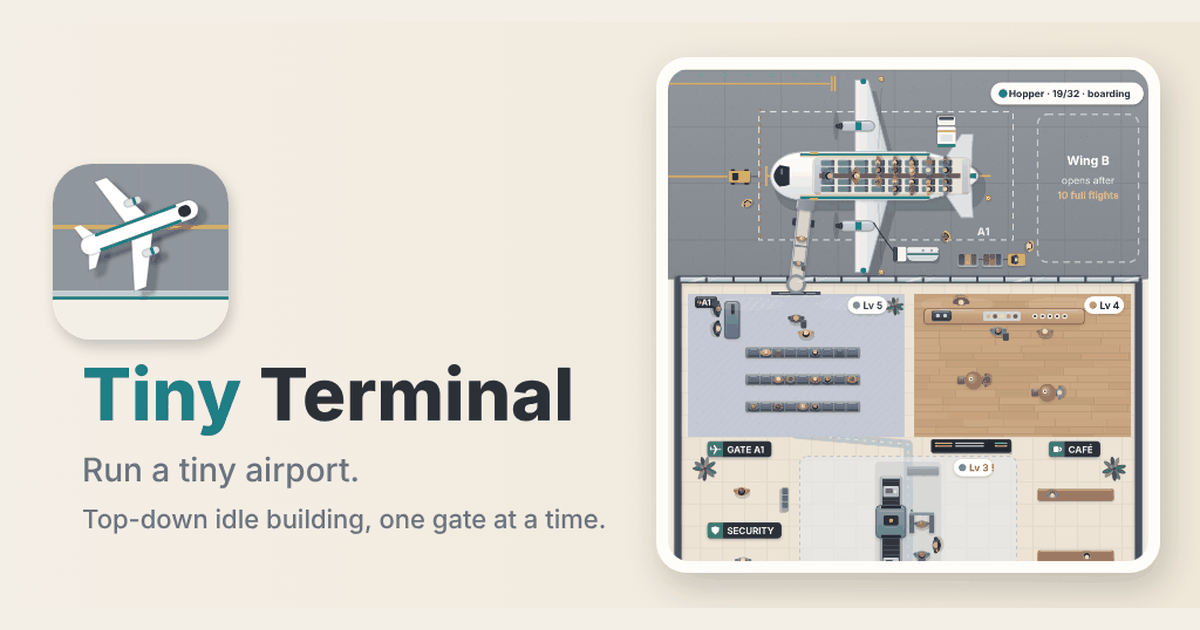
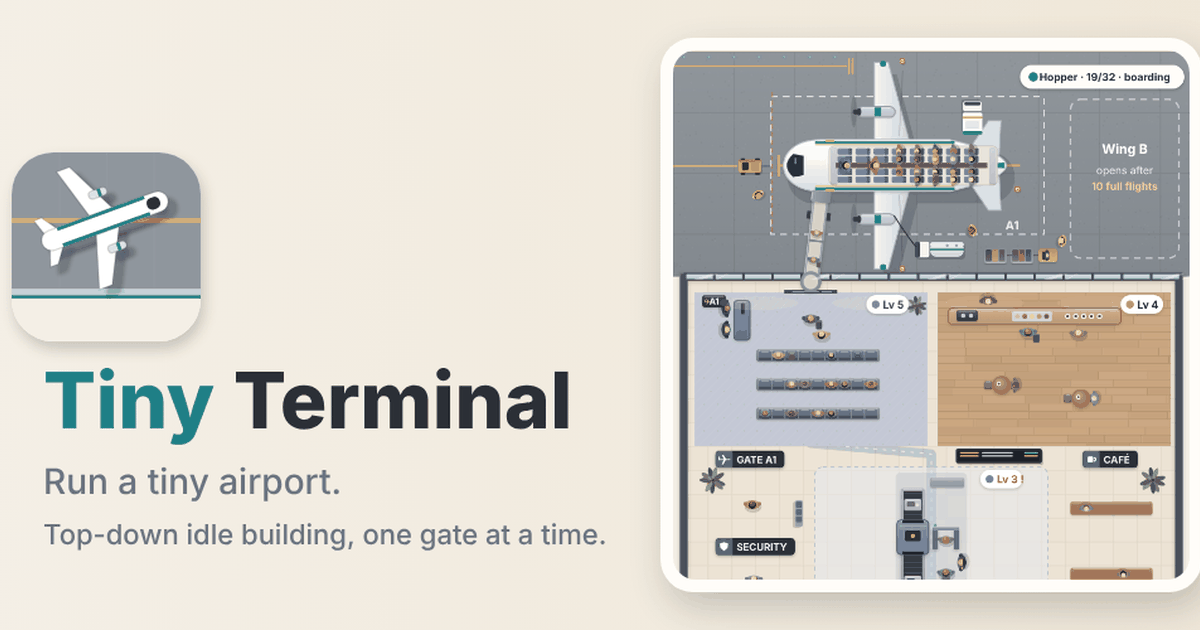
Marketing: Design and QA fixes for the Tiny Terminal site
Design (items 1-8 on feb8c0f0):
- tap targets of at least 44 px: nav toggle, Coming soon pill, footer links,
  .brand and the lightbox close
- brand mark in the nav and footer uses <picture> with 64/96 px WebP and PNG
- og.png: the feature graphic now covers the full 1200x630, with no frame
- no stray colours: --on-teal (the paper colour) for text on teal, and the
  shot, menu and lightbox shadows moved into --elev-* tokens

QA:
- FAQ: Settings -> Restore purchases (visible answer and FAQPage JSON-LD)
- "no analytics in the game" on the No account card
- CLAUDE.md no longer mentions .nojekyll

Claude-Session: https://claude.ai/code/session_017KbFjboyWF9GPd7Qu8dHwU

Changed region(s): [[0.0308, 0.0603, 1.0, 0.9952], [0.0308, 0.5429, 0.4933, 0.7841], [0.0, 0.2413, 0.2158, 0.5429]]

diff --git a/index.html b/index.html
@@ -48,7 +48,7 @@
       "name": "I bought Remove Ads. How do I get it on a new phone?",
       "acceptedAnswer": {
         "@type": "Answer",
-        "text": "Sign in to Google Play on the new phone with the same Google account you bought it with. Then open the game and go to Settings → Restore purchase. Remove Ads is a one-time purchase, so you don't pay again."
+        "text": "Sign in to Google Play on the new phone with the same Google account you bought it with. Then open the game and go to Settings → Restore purchases. Remove Ads is a one-time purchase, so you don't pay again."
       }
     },
     {
@@ -92,7 +92,11 @@
     --bg:var(--card); --bg-soft:var(--page); --line:var(--hairline);
     --sans:'Inter', system-ui, -apple-system, 'Segoe UI', Roboto, sans-serif;
     --r:12px; --r-btn:8px; --maxw:1120px;
-    --elev-card:0 2px 4px rgba(60,50,30,.06); --elev-toast:0 6px 16px rgba(30,30,30,.18);
+    /* elevation: card, sheet, toast from tokens.js; shot, menu and lightbox derived from the sheet and ink colours */
+    --elev-card:0 2px 4px rgba(60,50,30,.06); --elev-sheet:0 -6px 24px rgba(40,30,20,.12); --elev-toast:0 6px 16px rgba(30,30,30,.18);
+    --elev-shot:0 16px 44px -22px rgba(40,30,20,.45); --elev-menu:0 12px 24px -16px rgba(40,30,20,.25); --elev-lightbox:0 40px 90px -30px rgba(43,47,54,.6);
+    /* text on teal buttons: the paper colour (6.19:1 on --teal-deep) */
+    --on-teal:var(--card);
   }
   *{margin:0;padding:0;box-sizing:border-box}
   html{scroll-behavior:smooth}
@@ -111,22 +115,22 @@
   /* nav */
   nav{position:sticky; top:0; z-index:50; background:rgba(255,253,249,.9); backdrop-filter:blur(12px); border-bottom:1px solid var(--line)}
   .nav-in{display:flex; align-items:center; justify-content:space-between; max-width:var(--maxw); margin:0 auto; padding:12px 24px; position:relative}
-  .brand{display:inline-flex; align-items:center; gap:10px; font-size:18px; font-weight:800; letter-spacing:-0.01em; color:var(--ink); white-space:nowrap}
+  .brand{display:inline-flex; align-items:center; gap:10px; min-height:44px; font-size:18px; font-weight:800; letter-spacing:-0.01em; color:var(--ink); white-space:nowrap}
   .brand img{width:32px; height:32px; border-radius:8px}
   .nav-r{display:flex; align-items:center; gap:26px}
   .nav-r a{font-size:14px; font-weight:500; color:var(--ink-soft); transition:.15s}
   .nav-r a:hover{color:var(--ink)}
-  .nav-btn{background:var(--teal-deep); color:#fff !important; padding:9px 18px; border-radius:var(--r-btn); font-weight:700; font-size:14px; transition:.15s}
+  .nav-btn{background:var(--teal-deep); color:var(--on-teal) !important; padding:9px 18px; border-radius:var(--r-btn); font-weight:700; font-size:14px; transition:.15s}
   .nav-btn:hover{background:var(--ink)}
   /* Hamburger toggle: hidden on desktop, shown on mobile */
-  .nav-toggle{display:none; flex-direction:column; justify-content:center; gap:5px; width:42px; height:42px; padding:0 9px; border:0; background:none; cursor:pointer; -webkit-tap-highlight-color:transparent}
+  .nav-toggle{display:none; flex-direction:column; justify-content:center; gap:5px; width:44px; height:44px; padding:0 9px; border:0; background:none; cursor:pointer; -webkit-tap-highlight-color:transparent}
   .nav-toggle span{display:block; height:2px; width:100%; background:var(--ink); border-radius:2px; transition:transform .2s ease, opacity .2s ease}
   .nav-toggle[aria-expanded="true"] span:nth-child(1){transform:translateY(7px) rotate(45deg)}
   .nav-toggle[aria-expanded="true"] span:nth-child(2){opacity:0}
   .nav-toggle[aria-expanded="true"] span:nth-child(3){transform:translateY(-7px) rotate(-45deg)}
 
   .app-icon{border-radius:22%; box-shadow:var(--elev-toast)}
-  .pill{display:inline-block; padding:9px 20px; background:var(--teal-tint); color:var(--teal-deep); border-radius:999px; font-weight:700; font-size:15px}
+  .pill{display:inline-block; padding:11px 20px; background:var(--teal-tint); color:var(--teal-deep); border-radius:999px; font-weight:700; font-size:15px}
   .trust-strip{display:flex; gap:10px 16px; justify-content:center; flex-wrap:wrap; margin-top:22px; font-size:13px; font-weight:500; color:var(--ink)}
   .trust-strip span{display:inline-flex; align-items:center; gap:7px}
   .trust-strip span::before{content:""; width:5px; height:5px; border-radius:50%; background:var(--teal)}
@@ -136,7 +140,7 @@
   .foot-grid{display:grid; grid-template-columns:1.5fr 1fr 1fr 1fr; gap:32px}
   .foot-brand p{color:var(--ink-soft); font-size:14px; margin-top:14px; max-width:24em}
   .foot-col h4{font-size:12px; font-weight:500; letter-spacing:0.14em; text-transform:uppercase; color:var(--teal-deep); margin-bottom:12px}
-  .foot-col a{display:block; color:var(--ink-soft); font-size:14px; padding:5px 0; transition:.15s}
+  .foot-col a{display:block; color:var(--ink-soft); font-size:14px; padding:11px 0; line-height:22px; transition:.15s}
   .foot-col a:hover{color:var(--ink)}
   .foot-legal{border-top:1px solid var(--line); margin-top:38px; padding-top:22px; font-size:13px; color:var(--ink-soft); line-height:1.7}
   .foot-legal a{color:var(--ink); text-decoration:underline; text-decoration-color:var(--line); text-underline-offset:2px}
@@ -147,7 +151,7 @@
     .nav-toggle{display:flex}
     /* Links collapse into a dropdown panel toggled by the hamburger */
     .nav-r{position:absolute; top:100%; left:0; right:0; flex-direction:column; align-items:stretch; gap:0;
-           background:var(--card); border-bottom:1px solid var(--line); box-shadow:0 12px 24px -16px rgba(40,30,20,.25);
+           background:var(--card); border-bottom:1px solid var(--line); box-shadow:var(--elev-menu);
            padding:6px 0; display:none}
     .nav-r.open{display:flex}
     .nav-r a{padding:13px 24px; font-size:16px}
@@ -172,15 +176,15 @@
   /* phone slot: shot-*.png/webp are 540x960 (9:16), shown at 230x409, so a real
      phone screenshot can replace each file later without a layout change. */
   .phone{width:230px; flex:0 0 auto}
-  .screen.shot img{display:block; width:100%; height:auto; border-radius:20px; border:1px solid var(--line); box-shadow:0 16px 44px -22px rgba(40,30,20,.45)}
+  .screen.shot img{display:block; width:100%; height:auto; border-radius:20px; border:1px solid var(--line); box-shadow:var(--elev-shot)}
   /* Clickable screenshots -> lightbox */
   .shot-link{display:block; padding:0; margin:0; border:0; background:none; cursor:zoom-in; width:100%; -webkit-tap-highlight-color:transparent}
   .shot-link img{transition:opacity .2s ease}
   .shot-link:hover img{opacity:.9}
   .lightbox{position:fixed; inset:0; z-index:200; display:none; align-items:center; justify-content:center; padding:32px; background:rgba(43,47,54,.88); backdrop-filter:blur(4px); cursor:zoom-out}
   .lightbox.open{display:flex}
-  .lightbox img{max-width:min(92vw,420px); max-height:90vh; width:auto; height:auto; border-radius:14px; box-shadow:0 40px 90px -30px rgba(0,0,0,.6); cursor:default}
-  .lightbox-close{position:absolute; top:18px; right:22px; width:40px; height:40px; border:0; background:none; color:#fff; font-size:30px; line-height:1; cursor:pointer; border-radius:var(--r-btn)}
+  .lightbox img{max-width:min(92vw,420px); max-height:90vh; width:auto; height:auto; border-radius:14px; box-shadow:var(--elev-lightbox); cursor:default}
+  .lightbox-close{position:absolute; top:18px; right:22px; width:44px; height:44px; border:0; background:none; color:var(--on-teal); font-size:30px; line-height:1; cursor:pointer; border-radius:var(--r-btn)}
   @media (prefers-reduced-motion:no-preference){.lightbox img{animation:lbpop .2s ease}}
   @keyframes lbpop{from{transform:scale(.97); opacity:0} to{transform:scale(1); opacity:1}}
 
@@ -263,7 +267,7 @@
 
 <nav>
   <div class="nav-in">
-    <a class="brand" href="/"><img src="/favicon-32x32.png" alt="" width="32" height="32"><span><span class="tiny">Tiny</span> Terminal</span></a>
+    <a class="brand" href="/"><picture><source type="image/webp" srcset="/assets/img/app-icon-64.webp 2x, /assets/img/app-icon-96.webp 3x"><img src="/assets/img/app-icon-64.png" srcset="/assets/img/app-icon-64.png 2x, /assets/img/app-icon-96.png 3x" alt="" width="32" height="32"></picture><span><span class="tiny">Tiny</span> Terminal</span></a>
     <button class="nav-toggle" id="navToggle" type="button" aria-label="Menu" aria-expanded="false" aria-controls="navLinks">
       <span></span><span></span><span></span>
     </button>
@@ -365,7 +369,7 @@
     <div class="ben-grid">
       <div class="ben reveal"><div class="ic"><svg viewBox="0 0 24 24"><rect x="3" y="5" width="18" height="14" rx="3"/><path d="M10 9.5v5l4.5-2.5z"/></svg></div><h3>Optional ads only</h3><p>The only ads are rewarded videos that you choose to watch for a short coin boost, up to 12 a day. No interstitials and no forced ads, ever.</p></div>
       <div class="ben reveal"><div class="ic"><svg viewBox="0 0 24 24"><path d="M20.59 13.41l-7.17 7.17a2 2 0 0 1-2.83 0L2 12V2h10l8.59 8.59a2 2 0 0 1 0 2.82z"/><circle cx="7" cy="7" r="1.3"/></svg></div><h3>One fair purchase</h3><p>Remove Ads is a one-time purchase: you get the same 12 boosts a day without watching anything. No loot boxes, no paid skips and nothing else to buy.</p></div>
-      <div class="ben reveal"><div class="ic"><svg viewBox="0 0 24 24"><rect x="6" y="2.5" width="12" height="19" rx="2.5"/><path d="M10.5 18.5h3"/></svg></div><h3>No account, saved on your phone</h3><p>No accounts, no sign-in and no analytics. Your progress is saved on your phone.</p></div>
+      <div class="ben reveal"><div class="ic"><svg viewBox="0 0 24 24"><rect x="6" y="2.5" width="12" height="19" rx="2.5"/><path d="M10.5 18.5h3"/></svg></div><h3>No account, saved on your phone</h3><p>No accounts, no sign-in and no analytics in the game. Your progress is saved on your phone.</p></div>
       <div class="ben reveal"><div class="ic"><svg viewBox="0 0 24 24"><circle cx="12" cy="12" r="9"/><path d="M12 7v5l3 2"/></svg></div><h3>Earns while you're away</h3><p>Your airport keeps earning while you are away, up to a time limit you can raise.</p></div>
       <div class="ben reveal"><div class="ic"><svg viewBox="0 0 24 24"><path d="M4 9h13v5a5 5 0 0 1-5 5H9a5 5 0 0 1-5-5z"/><path d="M17 10.5h1.5a2.5 2.5 0 0 1 0 5H17"/><path d="M8 3.5v2.5M12 3.5v2.5"/></svg></div><h3>Short calm sessions</h3><p>Check in a few times a day. No timers to wait on and no energy system.</p></div>
       <div class="ben reveal"><div class="ic"><svg viewBox="0 0 24 24"><path d="M3 12h18M14 12l-4-7h2.5l5 7-5 7H10z"/><path d="M5 12l-2-3M5 12l-2 3"/></svg></div><h3>Planes earned, never sold</h3><p>The Hopper, the Swift and the Liner are earned with coins, never sold for money.</p></div>
@@ -380,7 +384,7 @@
       <h2>Questions, answered.</h2>
     </div>
     <div class="faq-list reveal">
-      <details class="faq"><summary>I bought Remove Ads. How do I get it on a new phone?<span class="fx" aria-hidden="true"></span></summary><p>Sign in to Google Play on the new phone with the same Google account you bought it with. Then open the game and go to Settings → Restore purchase. Remove Ads is a one-time purchase, so you don&#x27;t pay again.</p></details>
+      <details class="faq"><summary>I bought Remove Ads. How do I get it on a new phone?<span class="fx" aria-hidden="true"></span></summary><p>Sign in to Google Play on the new phone with the same Google account you bought it with. Then open the game and go to Settings → Restore purchases. Remove Ads is a one-time purchase, so you don&#x27;t pay again.</p></details>
       <details class="faq"><summary>Where is my progress saved?<span class="fx" aria-hidden="true"></span></summary><p>On your phone. There are no accounts and no sign-in. Android may back up your save to your own Google account, so it can survive a reinstall or a new phone. That backup follows your Android backup settings.</p></details>
       <details class="faq"><summary>How do I change my ad privacy choices?<span class="fx" aria-hidden="true"></span></summary><p>Open the game and go to Settings → Privacy options. You can also reset or delete your advertising ID in your Android settings (Settings → Privacy → Ads).</p></details>
       <details class="faq"><summary>How do I delete my data?<span class="fx" aria-hidden="true"></span></summary><p>Uninstall the game, or clear its storage in Android settings. We have no servers for the game, so nothing is stored on our side. To remove the Android backup copy, manage backups in your Google account.</p></details>
@@ -405,7 +409,7 @@
   <div class="wrap">
     <div class="foot-grid">
       <div class="foot-brand">
-        <a class="brand" href="/"><img src="/favicon-32x32.png" alt="" width="32" height="32"><span><span class="tiny">Tiny</span> Terminal</span></a>
+        <a class="brand" href="/"><picture><source type="image/webp" srcset="/assets/img/app-icon-64.webp 2x, /assets/img/app-icon-96.webp 3x"><img src="/assets/img/app-icon-64.png" srcset="/assets/img/app-icon-64.png 2x, /assets/img/app-icon-96.png 3x" alt="" width="32" height="32"></picture><span><span class="tiny">Tiny</span> Terminal</span></a>
         <p>Run a tiny airport. A calm, top-down idle game by Ubersoft.</p>
       </div>
       <div class="foot-col">

diff --git a/privacy.html b/privacy.html
@@ -37,7 +37,11 @@
     --bg:var(--card); --bg-soft:var(--page); --line:var(--hairline);
     --sans:'Inter', system-ui, -apple-system, 'Segoe UI', Roboto, sans-serif;
     --r:12px; --r-btn:8px; --maxw:1120px;
-    --elev-card:0 2px 4px rgba(60,50,30,.06); --elev-toast:0 6px 16px rgba(30,30,30,.18);
+    /* elevation: card, sheet, toast from tokens.js; shot, menu and lightbox derived from the sheet and ink colours */
+    --elev-card:0 2px 4px rgba(60,50,30,.06); --elev-sheet:0 -6px 24px rgba(40,30,20,.12); --elev-toast:0 6px 16px rgba(30,30,30,.18);
+    --elev-shot:0 16px 44px -22px rgba(40,30,20,.45); --elev-menu:0 12px 24px -16px rgba(40,30,20,.25); --elev-lightbox:0 40px 90px -30px rgba(43,47,54,.6);
+    /* text on teal buttons: the paper colour (6.19:1 on --teal-deep) */
+    --on-teal:var(--card);
   }
   *{margin:0;padding:0;box-sizing:border-box}
   html{scroll-behavior:smooth}
@@ -56,22 +60,22 @@
   /* nav */
   nav{position:sticky; top:0; z-index:50; background:rgba(255,253,249,.9); backdrop-filter:blur(12px); border-bottom:1px solid var(--line)}
   .nav-in{display:flex; align-items:center; justify-content:space-between; max-width:var(--maxw); margin:0 auto; padding:12px 24px; position:relative}
-  .brand{display:inline-flex; align-items:center; gap:10px; font-size:18px; font-weight:800; letter-spacing:-0.01em; color:var(--ink); white-space:nowrap}
+  .brand{display:inline-flex; align-items:center; gap:10px; min-height:44px; font-size:18px; font-weight:800; letter-spacing:-0.01em; color:var(--ink); white-space:nowrap}
   .brand img{width:32px; height:32px; border-radius:8px}
   .nav-r{display:flex; align-items:center; gap:26px}
   .nav-r a{font-size:14px; font-weight:500; color:var(--ink-soft); transition:.15s}
   .nav-r a:hover{color:var(--ink)}
-  .nav-btn{background:var(--teal-deep); color:#fff !important; padding:9px 18px; border-radius:var(--r-btn); font-weight:700; font-size:14px; transition:.15s}
+  .nav-btn{background:var(--teal-deep); color:var(--on-teal) !important; padding:9px 18px; border-radius:var(--r-btn); font-weight:700; font-size:14px; transition:.15s}
   .nav-btn:hover{background:var(--ink)}
   /* Hamburger toggle: hidden on desktop, shown on mobile */
-  .nav-toggle{display:none; flex-direction:column; justify-content:center; gap:5px; width:42px; height:42px; padding:0 9px; border:0; background:none; cursor:pointer; -webkit-tap-highlight-color:transparent}
+  .nav-toggle{display:none; flex-direction:column; justify-content:center; gap:5px; width:44px; height:44px; padding:0 9px; border:0; background:none; cursor:pointer; -webkit-tap-highlight-color:transparent}
   .nav-toggle span{display:block; height:2px; width:100%; background:var(--ink); border-radius:2px; transition:transform .2s ease, opacity .2s ease}
   .nav-toggle[aria-expanded="true"] span:nth-child(1){transform:translateY(7px) rotate(45deg)}
   .nav-toggle[aria-expanded="true"] span:nth-child(2){opacity:0}
   .nav-toggle[aria-expanded="true"] span:nth-child(3){transform:translateY(-7px) rotate(-45deg)}
 
   .app-icon{border-radius:22%; box-shadow:var(--elev-toast)}
-  .pill{display:inline-block; padding:9px 20px; background:var(--teal-tint); color:var(--teal-deep); border-radius:999px; font-weight:700; font-size:15px}
+  .pill{display:inline-block; padding:11px 20px; background:var(--teal-tint); color:var(--teal-deep); border-radius:999px; font-weight:700; font-size:15px}
   .trust-strip{display:flex; gap:10px 16px; justify-content:center; flex-wrap:wrap; margin-top:22px; font-size:13px; font-weight:500; color:var(--ink)}
   .trust-strip span{display:inline-flex; align-items:center; gap:7px}
   .trust-strip span::before{content:""; width:5px; height:5px; border-radius:50%; background:var(--teal)}
@@ -81,7 +85,7 @@
   .foot-grid{display:grid; grid-template-columns:1.5fr 1fr 1fr 1fr; gap:32px}
   .foot-brand p{color:var(--ink-soft); font-size:14px; margin-top:14px; max-width:24em}
   .foot-col h4{font-size:12px; font-weight:500; letter-spacing:0.14em; text-transform:uppercase; color:var(--teal-deep); margin-bottom:12px}
-  .foot-col a{display:block; color:var(--ink-soft); font-size:14px; padding:5px 0; transition:.15s}
+  .foot-col a{display:block; color:var(--ink-soft); font-size:14px; padding:11px 0; line-height:22px; transition:.15s}
   .foot-col a:hover{color:var(--ink)}
   .foot-legal{border-top:1px solid var(--line); margin-top:38px; padding-top:22px; font-size:13px; color:var(--ink-soft); line-height:1.7}
   .foot-legal a{color:var(--ink); text-decoration:underline; text-decoration-color:var(--line); text-underline-offset:2px}
@@ -92,7 +96,7 @@
     .nav-toggle{display:flex}
     /* Links collapse into a dropdown panel toggled by the hamburger */
     .nav-r{position:absolute; top:100%; left:0; right:0; flex-direction:column; align-items:stretch; gap:0;
-           background:var(--card); border-bottom:1px solid var(--line); box-shadow:0 12px 24px -16px rgba(40,30,20,.25);
+           background:var(--card); border-bottom:1px solid var(--line); box-shadow:var(--elev-menu);
            padding:6px 0; display:none}
     .nav-r.open{display:flex}
     .nav-r a{padding:13px 24px; font-size:16px}
@@ -118,7 +122,7 @@
 
 <nav>
   <div class="nav-in">
-    <a class="brand" href="/"><img src="/favicon-32x32.png" alt="" width="32" height="32"><span><span class="tiny">Tiny</span> Terminal</span></a>
+    <a class="brand" href="/"><picture><source type="image/webp" srcset="/assets/img/app-icon-64.webp 2x, /assets/img/app-icon-96.webp 3x"><img src="/assets/img/app-icon-64.png" srcset="/assets/img/app-icon-64.png 2x, /assets/img/app-icon-96.png 3x" alt="" width="32" height="32"></picture><span><span class="tiny">Tiny</span> Terminal</span></a>
     <button class="nav-toggle" id="navToggle" type="button" aria-label="Menu" aria-expanded="false" aria-controls="navLinks">
       <span></span><span></span><span></span>
     </button>
@@ -199,7 +203,7 @@ Effective date: [the date this page is published]</p>
   <div class="wrap">
     <div class="foot-grid">
       <div class="foot-brand">
-        <a class="brand" href="/"><img src="/favicon-32x32.png" alt="" width="32" height="32"><span><span class="tiny">Tiny</span> Terminal</span></a>
+        <a class="brand" href="/"><picture><source type="image/webp" srcset="/assets/img/app-icon-64.webp 2x, /assets/img/app-icon-96.webp 3x"><img src="/assets/img/app-icon-64.png" srcset="/assets/img/app-icon-64.png 2x, /assets/img/app-icon-96.png 3x" alt="" width="32" height="32"></picture><span><span class="tiny">Tiny</span> Terminal</span></a>
         <p>Run a tiny airport. A calm, top-down idle game by Ubersoft.</p>
       </div>
       <div class="foot-col">

diff --git a/download.html b/download.html
@@ -37,7 +37,11 @@
     --bg:var(--card); --bg-soft:var(--page); --line:var(--hairline);
     --sans:'Inter', system-ui, -apple-system, 'Segoe UI', Roboto, sans-serif;
     --r:12px; --r-btn:8px; --maxw:1120px;
-    --elev-card:0 2px 4px rgba(60,50,30,.06); --elev-toast:0 6px 16px rgba(30,30,30,.18);
+    /* elevation: card, sheet, toast from tokens.js; shot, menu and lightbox derived from the sheet and ink colours */
+    --elev-card:0 2px 4px rgba(60,50,30,.06); --elev-sheet:0 -6px 24px rgba(40,30,20,.12); --elev-toast:0 6px 16px rgba(30,30,30,.18);
+    --elev-shot:0 16px 44px -22px rgba(40,30,20,.45); --elev-menu:0 12px 24px -16px rgba(40,30,20,.25); --elev-lightbox:0 40px 90px -30px rgba(43,47,54,.6);
+    /* text on teal buttons: the paper colour (6.19:1 on --teal-deep) */
+    --on-teal:var(--card);
   }
   *{margin:0;padding:0;box-sizing:border-box}
   html{scroll-behavior:smooth}
@@ -56,22 +60,22 @@
   /* nav */
   nav{position:sticky; top:0; z-index:50; background:rgba(255,253,249,.9); backdrop-filter:blur(12px); border-bottom:1px solid var(--line)}
   .nav-in{display:flex; align-items:center; justify-content:space-between; max-width:var(--maxw); margin:0 auto; padding:12px 24px; position:relative}
-  .brand{display:inline-flex; align-items:center; gap:10px; font-size:18px; font-weight:800; letter-spacing:-0.01em; color:var(--ink); white-space:nowrap}
+  .brand{display:inline-flex; align-items:center; gap:10px; min-height:44px; font-size:18px; font-weight:800; letter-spacing:-0.01em; color:var(--ink); white-space:nowrap}
   .brand img{width:32px; height:32px; border-radius:8px}
   .nav-r{display:flex; align-items:center; gap:26px}
   .nav-r a{font-size:14px; font-weight:500; color:var(--ink-soft); transition:.15s}
   .nav-r a:hover{color:var(--ink)}
-  .nav-btn{background:var(--teal-deep); color:#fff !important; padding:9px 18px; border-radius:var(--r-btn); font-weight:700; font-size:14px; transition:.15s}
+  .nav-btn{background:var(--teal-deep); color:var(--on-teal) !important; padding:9px 18px; border-radius:var(--r-btn); font-weight:700; font-size:14px; transition:.15s}
   .nav-btn:hover{background:var(--ink)}
   /* Hamburger toggle: hidden on desktop, shown on mobile */
-  .nav-toggle{display:none; flex-direction:column; justify-content:center; gap:5px; width:42px; height:42px; padding:0 9px; border:0; background:none; cursor:pointer; -webkit-tap-highlight-color:transparent}
+  .nav-toggle{display:none; flex-direction:column; justify-content:center; gap:5px; width:44px; height:44px; padding:0 9px; border:0; background:none; cursor:pointer; -webkit-tap-highlight-color:transparent}
   .nav-toggle span{display:block; height:2px; width:100%; background:var(--ink); border-radius:2px; transition:transform .2s ease, opacity .2s ease}
   .nav-toggle[aria-expanded="true"] span:nth-child(1){transform:translateY(7px) rotate(45deg)}
   .nav-toggle[aria-expanded="true"] span:nth-child(2){opacity:0}
   .nav-toggle[aria-expanded="true"] span:nth-child(3){transform:translateY(-7px) rotate(-45deg)}
 
   .app-icon{border-radius:22%; box-shadow:var(--elev-toast)}
-  .pill{display:inline-block; padding:9px 20px; background:var(--teal-tint); color:var(--teal-deep); border-radius:999px; font-weight:700; font-size:15px}
+  .pill{display:inline-block; padding:11px 20px; background:var(--teal-tint); color:var(--teal-deep); border-radius:999px; font-weight:700; font-size:15px}
   .trust-strip{display:flex; gap:10px 16px; justify-content:center; flex-wrap:wrap; margin-top:22px; font-size:13px; font-weight:500; color:var(--ink)}
   .trust-strip span{display:inline-flex; align-items:center; gap:7px}
   .trust-strip span::before{content:""; width:5px; height:5px; border-radius:50%; background:var(--teal)}
@@ -81,7 +85,7 @@
   .foot-grid{display:grid; grid-template-columns:1.5fr 1fr 1fr 1fr; gap:32px}
   .foot-brand p{color:var(--ink-soft); font-size:14px; margin-top:14px; max-width:24em}
   .foot-col h4{font-size:12px; font-weight:500; letter-spacing:0.14em; text-transform:uppercase; color:var(--teal-deep); margin-bottom:12px}
-  .foot-col a{display:block; color:var(--ink-soft); font-size:14px; padding:5px 0; transition:.15s}
+  .foot-col a{display:block; color:var(--ink-soft); font-size:14px; padding:11px 0; line-height:22px; transition:.15s}
   .foot-col a:hover{color:var(--ink)}
   .foot-legal{border-top:1px solid var(--line); margin-top:38px; padding-top:22px; font-size:13px; color:var(--ink-soft); line-height:1.7}
   .foot-legal a{color:var(--ink); text-decoration:underline; text-decoration-color:var(--line); text-underline-offset:2px}
@@ -92,7 +96,7 @@
     .nav-toggle{display:flex}
     /* Links collapse into a dropdown panel toggled by the hamburger */
     .nav-r{position:absolute; top:100%; left:0; right:0; flex-direction:column; align-items:stretch; gap:0;
-           background:var(--card); border-bottom:1px solid var(--line); box-shadow:0 12px 24px -16px rgba(40,30,20,.25);
+           background:var(--card); border-bottom:1px solid var(--line); box-shadow:var(--elev-menu);
            padding:6px 0; display:none}
     .nav-r.open{display:flex}
     .nav-r a{padding:13px 24px; font-size:16px}
@@ -114,7 +118,7 @@
 
 <nav>
   <div class="nav-in">
-    <a class="brand" href="/"><img src="/favicon-32x32.png" alt="" width="32" height="32"><span><span class="tiny">Tiny</span> Terminal</span></a>
+    <a class="brand" href="/"><picture><source type="image/webp" srcset="/assets/img/app-icon-64.webp 2x, /assets/img/app-icon-96.webp 3x"><img src="/assets/img/app-icon-64.png" srcset="/assets/img/app-icon-64.png 2x, /assets/img/app-icon-96.png 3x" alt="" width="32" height="32"></picture><span><span class="tiny">Tiny</span> Terminal</span></a>
     <button class="nav-toggle" id="navToggle" type="button" aria-label="Menu" aria-expanded="false" aria-controls="navLinks">
       <span></span><span></span><span></span>
     </button>
@@ -150,7 +154,7 @@
   <div class="wrap">
     <div class="foot-grid">
       <div class="foot-brand">
-        <a class="brand" href="/"><img src="/favicon-32x32.png" alt="" width="32" height="32"><span><span class="tiny">Tiny</span> Terminal</span></a>
+        <a class="brand" href="/"><picture><source type="image/webp" srcset="/assets/img/app-icon-64.webp 2x, /assets/img/app-icon-96.webp 3x"><img src="/assets/img/app-icon-64.png" srcset="/assets/img/app-icon-64.png 2x, /assets/img/app-icon-96.png 3x" alt="" width="32" height="32"></picture><span><span class="tiny">Tiny</span> Terminal</span></a>
         <p>Run a tiny airport. A calm, top-down idle game by Ubersoft.</p>
       </div>
       <div class="foot-col">

diff --git a/404.html b/404.html
@@ -37,7 +37,11 @@
     --bg:var(--card); --bg-soft:var(--page); --line:var(--hairline);
     --sans:'Inter', system-ui, -apple-system, 'Segoe UI', Roboto, sans-serif;
     --r:12px; --r-btn:8px; --maxw:1120px;
-    --elev-card:0 2px 4px rgba(60,50,30,.06); --elev-toast:0 6px 16px rgba(30,30,30,.18);
+    /* elevation: card, sheet, toast from tokens.js; shot, menu and lightbox derived from the sheet and ink colours */
+    --elev-card:0 2px 4px rgba(60,50,30,.06); --elev-sheet:0 -6px 24px rgba(40,30,20,.12); --elev-toast:0 6px 16px rgba(30,30,30,.18);
+    --elev-shot:0 16px 44px -22px rgba(40,30,20,.45); --elev-menu:0 12px 24px -16px rgba(40,30,20,.25); --elev-lightbox:0 40px 90px -30px rgba(43,47,54,.6);
+    /* text on teal buttons: the paper colour (6.19:1 on --teal-deep) */
+    --on-teal:var(--card);
   }
   *{margin:0;padding:0;box-sizing:border-box}
   html{scroll-behavior:smooth}
@@ -56,22 +60,22 @@
   /* nav */
   nav{position:sticky; top:0; z-index:50; background:rgba(255,253,249,.9); backdrop-filter:blur(12px); border-bottom:1px solid var(--line)}
   .nav-in{display:flex; align-items:center; justify-content:space-between; max-width:var(--maxw); margin:0 auto; padding:12px 24px; position:relative}
-  .brand{display:inline-flex; align-items:center; gap:10px; font-size:18px; font-weight:800; letter-spacing:-0.01em; color:var(--ink); white-space:nowrap}
+  .brand{display:inline-flex; align-items:center; gap:10px; min-height:44px; font-size:18px; font-weight:800; letter-spacing:-0.01em; color:var(--ink); white-space:nowrap}
   .brand img{width:32px; height:32px; border-radius:8px}
   .nav-r{display:flex; align-items:center; gap:26px}
   .nav-r a{font-size:14px; font-weight:500; color:var(--ink-soft); transition:.15s}
   .nav-r a:hover{color:var(--ink)}
-  .nav-btn{background:var(--teal-deep); color:#fff !important; padding:9px 18px; border-radius:var(--r-btn); font-weight:700; font-size:14px; transition:.15s}
+  .nav-btn{background:var(--teal-deep); color:var(--on-teal) !important; padding:9px 18px; border-radius:var(--r-btn); font-weight:700; font-size:14px; transition:.15s}
   .nav-btn:hover{background:var(--ink)}
   /* Hamburger toggle: hidden on desktop, shown on mobile */
-  .nav-toggle{display:none; flex-direction:column; justify-content:center; gap:5px; width:42px; height:42px; padding:0 9px; border:0; background:none; cursor:pointer; -webkit-tap-highlight-color:transparent}
+  .nav-toggle{display:none; flex-direction:column; justify-content:center; gap:5px; width:44px; height:44px; padding:0 9px; border:0; background:none; cursor:pointer; -webkit-tap-highlight-color:transparent}
   .nav-toggle span{display:block; height:2px; width:100%; background:var(--ink); border-radius:2px; transition:transform .2s ease, opacity .2s ease}
   .nav-toggle[aria-expanded="true"] span:nth-child(1){transform:translateY(7px) rotate(45deg)}
   .nav-toggle[aria-expanded="true"] span:nth-child(2){opacity:0}
   .nav-toggle[aria-expanded="true"] span:nth-child(3){transform:translateY(-7px) rotate(-45deg)}
 
   .app-icon{border-radius:22%; box-shadow:var(--elev-toast)}
-  .pill{display:inline-block; padding:9px 20px; background:var(--teal-tint); color:var(--teal-deep); border-radius:999px; font-weight:700; font-size:15px}
+  .pill{display:inline-block; padding:11px 20px; background:var(--teal-tint); color:var(--teal-deep); border-radius:999px; font-weight:700; font-size:15px}
   .trust-strip{display:flex; gap:10px 16px; justify-content:center; flex-wrap:wrap; margin-top:22px; font-size:13px; font-weight:500; color:var(--ink)}
   .trust-strip span{display:inline-flex; align-items:center; gap:7px}
   .trust-strip span::before{content:""; width:5px; height:5px; border-radius:50%; background:var(--teal)}
@@ -81,7 +85,7 @@
   .foot-grid{display:grid; grid-template-columns:1.5fr 1fr 1fr 1fr; gap:32px}
   .foot-brand p{color:var(--ink-soft); font-size:14px; margin-top:14px; max-width:24em}
   .foot-col h4{font-size:12px; font-weight:500; letter-spacing:0.14em; text-transform:uppercase; color:var(--teal-deep); margin-bottom:12px}
-  .foot-col a{display:block; color:var(--ink-soft); font-size:14px; padding:5px 0; transition:.15s}
+  .foot-col a{display:block; color:var(--ink-soft); font-size:14px; padding:11px 0; line-height:22px; transition:.15s}
   .foot-col a:hover{color:var(--ink)}
   .foot-legal{border-top:1px solid var(--line); margin-top:38px; padding-top:22px; font-size:13px; color:var(--ink-soft); line-height:1.7}
   .foot-legal a{color:var(--ink); text-decoration:underline; text-decoration-color:var(--line); text-underline-offset:2px}
@@ -92,7 +96,7 @@
     .nav-toggle{display:flex}
     /* Links collapse into a dropdown panel toggled by the hamburger */
     .nav-r{position:absolute; top:100%; left:0; right:0; flex-direction:column; align-items:stretch; gap:0;
-           background:var(--card); border-bottom:1px solid var(--line); box-shadow:0 12px 24px -16px rgba(40,30,20,.25);
+           background:var(--card); border-bottom:1px solid var(--line); box-shadow:var(--elev-menu);
            padding:6px 0; display:none}
     .nav-r.open{display:flex}
     .nav-r a{padding:13px 24px; font-size:16px}
@@ -107,7 +111,7 @@
   .n{font-size:clamp(72px,14vw,128px); font-weight:800; letter-spacing:-0.04em; color:var(--teal-deep); line-height:1; margin:14px 0 10px}
   h1{font-size:clamp(26px,4vw,36px)}
   main p{color:var(--ink); margin:14px 0 26px; font-size:17px}
-  .btn{display:inline-block; background:var(--teal-deep); color:#fff; padding:12px 22px; border-radius:var(--r-btn); font-weight:700}
+  .btn{display:inline-block; background:var(--teal-deep); color:var(--on-teal); padding:12px 22px; border-radius:var(--r-btn); font-weight:700}
   .btn:hover{background:var(--ink)}
 </style>
 </head>

diff --git a/CLAUDE.md b/CLAUDE.md
@@ -1,7 +1,7 @@
 # CLAUDE.md
 
 ## What this repo is
-Static marketing site for Tiny Terminal at tinyterminal.app, served by GitHub Pages. Plain static HTML and CSS, no generator (`.nojekyll`).
+Static marketing site for Tiny Terminal at tinyterminal.app, served by GitHub Pages. Plain static HTML and CSS. GitHub Pages builds it with Jekyll; `_config.yml` (copied from zbilltracker-site) keeps CLAUDE.md and .claude off the live site, and no file has front matter, so every page is copied as-is.
 Sibling repos: `tinyterminal-dev` and `tinyterminal`.
 
 ## Ubersoft working rules (Thomas, CEO, 2026-10-29)
